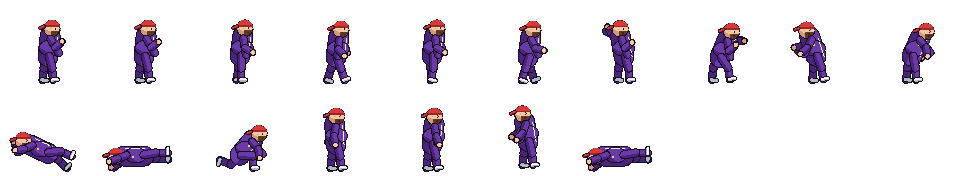
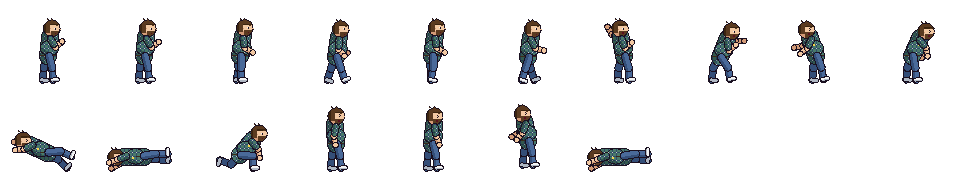
v0.2.2: redraw Will and Belligerent Visitor in normal clothes
- Will: keep bald + bright blue, now a fitted short-sleeve top with skin
  forearms/hands, belt, dark pants and brown shoes; slimmer build so no
  padded suit/armor look
- Visitor: drop purple tracksuit + red cap; plaid flannel (new 'plaid'
  body option in make_art), jeans, belt, white sneakers, short brown hair,
  beard, visitor badge
- Same sheet size, frames and hitboxes; regenerated art/will.png,
  art/visitor.png, sprites (portraits)
- Before/after: docs/will_visitor_before_after.png
- CHANGELOG v0.2.2, AGENTS.md, SW cache nbd2-app-v4

diff --git a/sw.js b/sw.js
@@ -1,7 +1,7 @@
 // Home-screen app support (n64-suite games). Network first, always: online play never sees a stale file. The small
 // code / data files (html, js, css, json, webmanifest) are kept in a cache only so the app can still open offline.
 // It also gives Chrome the fetch handler it wants before it offers "Install app" (beforeinstallprompt).
-const CACHE = 'nbd2-app-v3';
+const CACHE = 'nbd2-app-v4';
 const SMALL = /\.(?:html|js|css|json|webmanifest)$|\/$/;
 self.addEventListener('install', () => self.skipWaiting());
 self.addEventListener('activate', (e) => e.waitUntil(self.clients.claim()));

diff --git a/tools/chars.py b/tools/chars.py
@@ -66,7 +66,9 @@ def stripes(S, T, hip, neck, lean, b):
             S.set(int(x), int(y), "#f0f0f4")
 
 
-WILL_BLUE = ("#2f86f6", "#1c5ec4")   # Will: plain bright blue shirt (Bill, 2026-10-03)
+WILL_BLUE = ("#2f86f6", "#1c5ec4")
+FLANNEL = ("#4a7a6a", "#33584c")                                   # visitor's flannel shirt: muted green/teal
+FLANNEL_CHECK = ("#2e4a6a", "#22384e", "#c8d4c0", "#8a9a88")       # dark blue lines, light crossings   # Will: plain bright blue shirt (Bill, 2026-10-03)
 
 
 def bald_shine(S, hc, r, b, pose):
@@ -202,9 +204,11 @@ def bodies():
     B["kim"] = hero_body(thigh=9, shin=9, torso=15, head=6.6, uarm=7, farm=7, torso_w=11, arm_w=3.3, leg_w=4.6, skin=sk["fair"][0], skin_s=sk["fair"][1],
                          hair_c="#d8462a", hair_s="#9c2c1a", hair=hair_cap(top=-0.1, back=0.4), hair_back=ponytail,
                          freckles="#d08a6a", shoe="#ffffff", shoe_s="#b8c2d0", mouth="#c0505e")
-    B["will"] = hero_body(thigh=9, shin=8.5, torso=16, head=7, uarm=7, farm=7, arm_w=4.2, leg_w=5.8, torso_w=15.5, belly=3, fist=2.3,
-                          skin=sk["light"][0], skin_s=sk["light"][1], hair=bald_shine, shirt=WILL_BLUE[0], shirt_s=WILL_BLUE[1], sleeve=WILL_BLUE[0], sleeve_s=WILL_BLUE[1], vneck=False, steth=True,
-                          shoe="#2a2a30", shoe_s="#14141a", badge="#f4f4f4", sleeve_len=0.7)
+    # Will (v0.2.2): regular guy proportions, a fitted bright blue t-shirt with short sleeves (skin-tone forearms), belt, navy pants
+    B["will"] = hero_body(thigh=9, shin=8.5, torso=16, head=7, uarm=7, farm=7, arm_w=3.8, leg_w=5.2, torso_w=13, belly=1, fist=2.1,
+                          skin=sk["light"][0], skin_s=sk["light"][1], hair=bald_shine, shirt=WILL_BLUE[0], shirt_s=WILL_BLUE[1], sleeve=WILL_BLUE[0], sleeve_s=WILL_BLUE[1],
+                          vneck=False, crew="#1c5ec4", steth=True, belt="#4a3220", pants="#2a3658", pants_s="#1c2440",
+                          shoe="#3a2a22", shoe_s="#22160e", badge="#f4f4f4", sleeve_len=0.42)
     B["jackie"] = hero_body(thigh=12, shin=11.5, torso=17.5, head=6.4, uarm=8.5, farm=8.5, torso_w=11, arm_w=3.3, leg_w=4.7, skin=sk["tan"][0], skin_s=sk["tan"][1],
                             hair_c="#4a2a18", hair_s="#2e180c", hair=hair_cap(top=0.05, back=0.2, grow=2.2, bumps=1.3, fringe=0, seed=2),
                             shoe="#9a5ae0", shoe_s="#6a34a8", mouth="#b04a5a")
@@ -235,11 +239,13 @@ def bodies():
     B["elite"] = hero_body(thigh=11, shin=11, torso=17, torso_w=12, head=6.8, skin=sk["fair"][0], skin_s=sk["fair"][1], hair_c="#d0582a", hair_s="#983a1a",
                            hair=hair_cap(top=-0.1, back=0.4, grow=1.0, seed=9), hair_back=beehive, glasses="#8a2a6a",
                            **{**gown, "gown_len": 10}, pants=sk["fair"][0], pants_s=sk["fair"][1], shoe=SOCK_ELITE[0], shoe_s=SOCK_ELITE[1], sock=SOCK_ELITE[0], foot_len=3.6)
-    B["visitor"] = hero_body(thigh=12, shin=12, torso=20, head=7.6, uarm=9.5, farm=9, arm_w=5.2, leg_w=6.4, torso_w=19, belly=2,
-                             skin=sk["light"][0], skin_s=sk["light"][1], hair_c="#5a3a20", hair_s="#3a2410", hair=cap_back,
-                             shirt="#6a3aa8", shirt_s="#48247a", sleeve="#6a3aa8", sleeve_s="#48247a", sleeve_len=1.7, pattern=stripes,
-                             pants="#6a3aa8", pants_s="#48247a", vneck=False, steth=False, badge="#f2d24a", shoe="#f4f4f4", shoe_s="#b0b8c4",
-                             beard="#5a3a20", fist=2.2, foot_len=4.4, foot_w=3.2)
+    # Belligerent Visitor (v0.2.2): a regular big guy in street clothes: blue/green flannel with rolled sleeves (skin forearms),
+    # open collar, belt, blue jeans, white sneakers, short brown hair + beard. No cap, no tracksuit.
+    B["visitor"] = hero_body(thigh=12, shin=12, torso=20, head=7.6, uarm=9.5, farm=9, arm_w=4.6, leg_w=5.8, torso_w=16, belly=1.5,
+                             skin=sk["light"][0], skin_s=sk["light"][1], hair_c="#5a3a20", hair_s="#3a2410", hair=hair_cap(top=-0.4, back=0.25, grow=0.4, spikes=2, seed=4),
+                             shirt=FLANNEL[0], shirt_s=FLANNEL[1], sleeve=FLANNEL[0], sleeve_s=FLANNEL[1], sleeve_len=0.62, plaid=(FLANNEL, FLANNEL_CHECK),
+                             pants="#4a6a9a", pants_s="#344e78", belt="#3a2a1a", vneck=True, steth=False, badge="#f2d24a", shoe="#f4f4f4", shoe_s="#b0b8c4",
+                             beard="#5a3a20", fist=2.2, foot_len=4.4, foot_w=3.0)
     return B
 
 

diff --git a/tools/make_art.py b/tools/make_art.py
@@ -33,6 +33,8 @@ COLS = 10
 def char_sheet(name, anims, body, cell=(88, 80), anchor=(44, 76)):
     frames, meta = [], {}
     post = chars.gown_check if body.get("check") else None
+    if body.get("plaid"):  # flannel: same fixed-grid check, its own colours and a wider period
+        pl = body["plaid"]; post = lambda im: chars.gown_check(im, base=pl[0], check=pl[1], period=4)
     for an, poses in anims.items():
         start = len(frames)
         hands = []

diff --git a/AGENTS.md b/AGENTS.md
@@ -8,13 +8,13 @@ A 1990s arcade beat 'em up in the spirit of Golden Axe and the TMNT and Simpsons
 their way through hospital floors full of comedic patients. Plain HTML5 Canvas 2D plus ES modules. No build step
 and no dependencies at runtime. Live on GitHub Pages: https://unclebill-spec.github.io/nicks-bad-day-2/
 
-## Current state (2026-10-03, v0.2.1)
+## Current state (2026-10-03, v0.2.2)
 - **Level 1 "Floor 3: Med-Surg" is fully playable** from the title screen through to the tally and the "Floor 4: Radiology" teaser.
   The level is 3560 px wide with 6 camera-lock zones: 5 wave zones, then the boss dayroom.
 - **4 heroes:**
   - Nick: balanced, Crash Cart special.
   - Kim: fast, Whirlwind Kick.
-  - Will: power, Body Slam, big throws. He is bald (skin-tone head with a shine) in a plain bright blue shirt, and his stat color is blue; there's no orange or Halloween look anywhere.
+  - Will: power, Body Slam, big throws. He is bald (skin-tone head with a shine) in a normal fitted short-sleeve bright blue top, with skin forearms, a belt, dark pants and shoes. His stat color is blue. There's no orange/Halloween look and no padded suit/armor look.
   - Jackie: reach, Clipboard Spin, strong jump and dash.
 - **Moves:** combos with a finisher, jump and jump kick, run (double-tap or Shift/RB) and dash attack, back attack (Attack+Jump),
   auto-grab, then knee or throw (throws hit other patients), a special that costs 8 HP, and the Code Blue super when the meter is full.
@@ -22,7 +22,7 @@ and no dependencies at runtime. Live on GitHub Pages: https://unclebill-spec.git
   - Types: Wanderer (hugs), Call-light Spammer (throws remotes and pudding), Escape Artist (slaps and runs), IV-pole Swinger (sweeps),
     Sundowner (charges), Crutch Crusader (crutch poke), and Bell Ringer (call bell on a cord, whip that dizzies).
   - **Elite "Frequent Flyer":** beehive with curlers, red or blue socks, a cane up close, and from range syringe darts or lobbed urinals that splash and leave a slippery puddle.
-  - The Belligerent Visitor is an armored brute in a tracksuit; he's a visitor, so no gown.
+  - The Belligerent Visitor is a tough guy in normal street clothes: plaid flannel (`plaid` body option), jeans, belt and white sneakers, with short brown hair, a beard and a yellow visitor badge. He's a visitor, so no gown, and he must not look like a tracksuit, cap, armor or red suit.
   - Each has its own KO line and falls asleep or gets tucked in. Crutch, bell and elite patients may drop their weapon.
 - **Spawns** come in waves with an on-screen cap, from hallway room doors (301–314), from the elevators (B, C), and from both screen edges.
 - **Pickups:** energy drink (small heal), fruit snacks (big heal), candy (speed), the ZYNN tin (+1 life; parody label, never the real logo), and score items (donut, gold star).

diff --git a/CHANGELOG.md b/CHANGELOG.md
@@ -2,6 +2,13 @@
 
 All notable changes to Nick's Very Bad, Terrible Bad Day Part II. Dates are America/New_York.
 
+## 2026-10-03: v0.2.2 "Normal Clothes" (Bill's feedback)
+- **Will and the Belligerent Visitor now wear normal clothes** instead of looking like they're in padded red-man suits or armor. Bulk, outlines and sizes were trimmed to match Nick, Kim, Jackie and the patients.
+- **Will:** still bald and in bright blue, but now in a fitted short-sleeve blue top. You can see his skin-tone forearms and hands, plus a brown belt, regular dark pants and brown shoes. The puffy torso and long arm "plates" are gone.
+- **Belligerent Visitor:** the purple tracksuit and red cap are gone. He now wears a green/navy plaid flannel shirt open at the neck, blue jeans, a belt and white sneakers, with short brown hair and a beard. He keeps the yellow visitor badge. The plaid comes from a new `plaid` body option in `tools/make_art.py`.
+- Same pixel style, sheet size, animation frames and hitboxes. Updated everywhere they appear: all frames (`art/will.png`, `art/visitor.png`), the select card, the HUD/tally portraits and the title.
+- **Before/after:** `docs/will_visitor_before_after.png`. Service worker cache bumped to `nbd2-app-v4`.
+
 ## 2026-10-03: v0.2.1 "Will's new look" (Bill's feedback)
 - **Will is now bald.** He has a clean skin-tone head with a small shine highlight on the crown, and his plain bright blue shirt (`WILL_BLUE` in `tools/chars.py`) replaces the orange Halloween shirt.
 - **The whole orange/pumpkin look is gone:** the `halloween` pattern is deleted from `tools/chars.py`, and Will's hero-select stat-bar and role color is now blue (`#3a92ff`).
